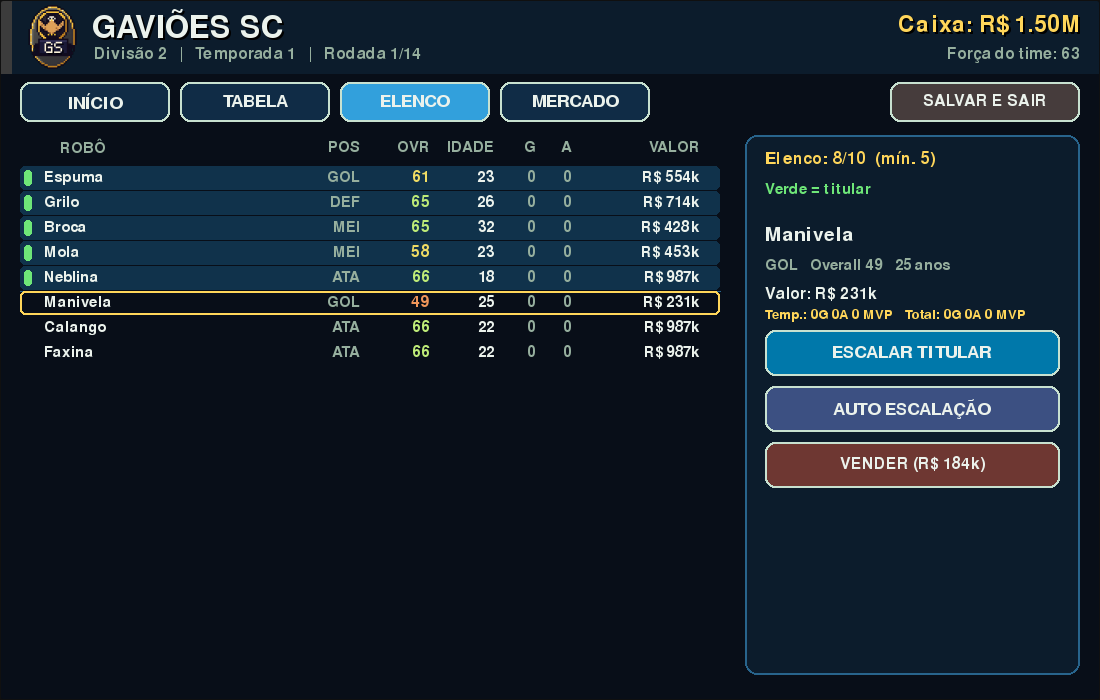
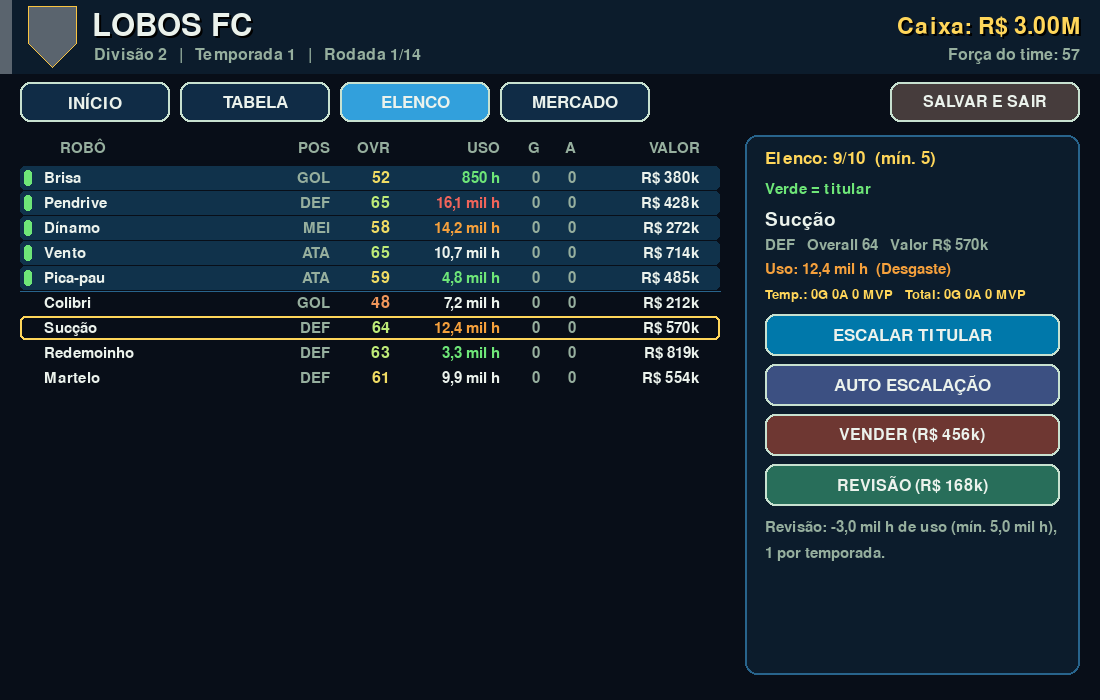
docs: carreira com horas de uso e revisao, captura do elenco

diff --git a/README.md b/README.md
@@ -49,7 +49,8 @@ pelas habilidades dos robôs.
 
 ![Elenco da carreira com robôs](docs/img/carreira-elenco.png)
 
-**Elenco da carreira** - robôs aspiradores com nome de robô, de 5 a 10 por time (5 titulares em verde).
+**Elenco da carreira** - robôs aspiradores com nome de robô, de 5 a 10 por time (5 titulares em verde), horas de
+USO coloridas pela fase (verde amaciando, branco auge, laranja desgaste, vermelho fim de vida) e a REVISÃO.
 
 ![Todos os escudos](docs/img/escudos.png)
 
@@ -197,12 +198,18 @@ torcida, ~1 min) sem trocar a música do menu. Qualquer tecla, clique, toque ou 
    com nome de robô ("Zumbido", "Faísca", "Rodinha", "Turbo Mk2", "Vassoura-7", "RX-07"...;
    catálogo de ~4,7 mil nomes em `game/robot_names.py`, tirado do id do robô, sem repetir no clube).
    **Elenco de 5 a 10 robôs** (5 titulares em campo: GOL, DEF, 2 MEI, ATA, e até 5 reservas; os
-   clubes da CPU começam com 7-10, sempre com goleiro reserva) com overall/idade/valor,
+   clubes da CPU começam com 7-10, sempre com goleiro reserva) com overall/horas de uso/valor,
    **mercado de transferências** (não compra acima de 10 nem vende abaixo de 5), finanças (bilheteria,
    salários, premiação), **promoção/rebaixamento** (sobem/descem 2) e evolução
-   dos robôs entre temporadas. Save antigo (nomes de pessoa, 12-20 jogadores) é migrado ao
+   dos robôs entre temporadas. **Horas de uso** no lugar da idade: +50 h por partida para cada titular
+   (jogos assistidos e simulados) e +300 h para todo robô na virada da temporada; a fase define a evolução
+   do overall (0-5 mil h Amaciando, 5-11 mil Auge, 11-16 mil Desgaste, 16 mil+ Fim de vida) e com 16 mil h
+   (40%) ou 18 mil h o robô vai para a **reciclagem** (entra um de fábrica, 0-2 mil h). Robô novinho vale mais,
+   gasto vale menos. **REVISÃO** (ELENCO, robô do seu clube): tira 3 mil h sem baixar de 5 mil h, 1 por robô
+   por temporada, custa 25% do valor base (mín. R$ 100k) e não muda o overall. Save antigo (nomes de pessoa, 12-20 jogadores) é migrado ao
    continuar: todos ganham nome de robô e o elenco fica com os titulares + os melhores reservas até 10
-   (no seu clube os excedentes são vendidos pelo valor de mercado e o dinheiro entra no caixa). Suas partidas são **jogadas automaticamente
+   (no seu clube os excedentes são vendidos pelo valor de mercado e o dinheiro entra no caixa); save `ver` 2
+   (idade em anos) vira `ver` 3 com horas = (idade - 18) x 1000 (+-300 pelo id), overall igual. Suas partidas são **jogadas automaticamente
    no campo** (você assiste; velocidade 1x/2x/4x/MAX nas teclas 1-4); as dos
    outros clubes são simuladas. Na aba INÍCIO, o seletor de **formação** do seu clube fica no
    painel da próxima partida. O progresso é salvo sozinho (`localStorage` no
@@ -453,7 +460,7 @@ export SDL_VIDEODRIVER=dummy SDL_AUDIODRIVER=dummy
 .venv/bin/python tests/test_camera.py                  # câmera de estádio: começa sempre em ESTÁDIO, C só na pausa, gol não troca, zero Surface
 .venv/bin/python tests/test_narration.py               # narrador/comentarista: catálogo, fila sem spam, nomes, faixa, zero Surface
 .venv/bin/python tests/test_match_stats.py             # estatísticas: assistência, gol contra, defesa, MVP, coleta não muda o jogo, SIMULAR, saves, telas
-.venv/bin/python tests/test_career.py                  # carreira: nomes de robô, elenco 5-10, mercado, temporadas, migração do save antigo, telas
+.venv/bin/python tests/test_career.py                  # carreira: nomes de robô, elenco 5-10, mercado, temporadas, horas de uso, revisão, migração v1/v2, telas
 .venv/bin/python tests/test_crests.py                  # escudos: determinismo, todos os times, cache/memória, zero Surface por quadro, contraste, campo "crest" da garagem
 .venv/bin/python tests/test_robot_art.py               # robôs: chassis, peças visíveis, cache, FX, local da torcida por modo
 .venv/bin/python tests/test_arena.py                   # modificadores de arena da Torre do Pó (desligados fora dela, efeito, zero Surface)
@@ -506,7 +513,7 @@ Utilitários do harness (`tests/sim_harness.py`): `golden`/`golden-new` com
 - `tools/versionar_build.sh`: versiona `game.apk`/`game.tar.gz` no `index.html` do build (`?v=<sha256 curto do game.apk>`; cache busting a cada deploy)
 - `tools/torcida_loop.sh`: gera `game/audio/torcida_loop.ogg` (torcida de fundo da partida, 24 s em loop sem emenda) a partir das 3 gravações de torcida
 - `game/robots_ui.py`: telas do Modo Robôs (hub, garagem, banco, loja, habilidades, mochila, visual, liga)
-- `game/career.py` / `game/career_ui.py`: carreira de clubes (liga, elenco de 5-10 robôs, mercado, finanças, save com `ver` e migração do save antigo) e suas telas
+- `game/career.py` / `game/career_ui.py`: carreira de clubes (liga, elenco de 5-10 robôs, mercado, finanças, horas de uso e revisão, save com `ver` e migração dos saves antigos) e suas telas
 - `game/robot_names.py`: nomes de robô da carreira (catálogo determinístico pelo id, sem RNG)
 - `game/story.py`: dados da campanha (personagens, times, cenas/diálogos, torneios, capítulos, recompensas); módulo puro, sem pygame. É a fachada da campanha: guarda o Ato 1 e junta `story_a2.py` (Ato 2), `story_a3.py` (Ato 3) e `story_side.py` (missões secundárias), com os dados de cada parte; `story_post.py` guarda as cenas curtas das revanches do NG+
 - `game/campaign.py`: lógica da campanha (progresso, torneios de copa/liga/série, chefes/pity, treino, missões secundárias, finais, recompensas, NG+ e Torre do Pó, save v3 com migração do v1/v2)

diff --git a/docs/INDEX.md b/docs/INDEX.md
@@ -14,7 +14,7 @@ Planejamento e especificações do jogo. O código e os comandos do dia a dia es
 | [specs/estatisticas.md](specs/estatisticas.md) | Estatísticas da partida (coleta passiva no motor: gols, assistências, chutes, passes, desarmes, dribles, defesas, posse), nota e MELHOR DO JOGO, onde aparecem em cada modo (fim da partida, card do resumo, TAB), SIMULAR com RNG privado, acumulados nos saves (robo `cs`, liga `ps`, torneio `ps`, jogadores da carreira) e limitações |
 | [plano-crazygames.md](plano-crazygames.md) | Proposta para publicar no CrazyGames: como funciona a publicação (Basic/Full Launch, repasse), direitos dos áudios a trocar, inglês, SDK de anúncios (`game/portal.py`), build sem CDN externo, celular, página, cadastro/pagamento e ordem dos passos |
 | [baseline-fase4.md](baseline-fase4.md) | Medições de referência antes da Fase 4 (commit 8a467a3): `draw_ms`, `menu_ms`, `ms_step`, goldens e resumo da calibragem da campanha |
-| [img/](img/) | Capturas de tela usadas no README (menu, partida com a faixa do narrador, amistoso, formação, campanha, garagem, habilidades, Mochila, cosméticos, Torre, escudos, elenco da carreira). Para regerar, com `SDL_VIDEODRIVER=dummy SDL_AUDIODRIVER=dummy SOCCERPY_SHOTS_DIR=<pasta>`: `tests/sim_harness.py ui-shots` (menu `a7_menu.png`, gol e narração) e `camera-shots`; `tests/test_campaign_ui.py <teste>` (ex.: `test_tourney_group_table_bracket_and_labels` -> `tourney_knockout.png`, `test_tower_screen_sim_watch_marks_and_restart` -> `d2_torre_tela.png`, `test_formation_selector_tourney_training_and_save` -> `formacao_torneio.png`); `tests/test_robots_ui.py test_formation_selector_robots_hub_and_save` (`formacao_robos.png`, aba LIGA); `tests/test_friendly.py` (tela do amistoso). A partida do README é um Modo Robôs no `estadio` com a garagem `sim_harness.loaded_garage()`, capturada após ~12 s de jogo. Confira cada imagem e copie só as escolhidas |
+| [img/](img/) | Capturas de tela usadas no README (menu, partida com a faixa do narrador, amistoso, formação, campanha, garagem, habilidades, Mochila, cosméticos, Torre, escudos, elenco da carreira). Para regerar, com `SDL_VIDEODRIVER=dummy SDL_AUDIODRIVER=dummy SOCCERPY_SHOTS_DIR=<pasta>`: `tests/sim_harness.py ui-shots` (menu `a7_menu.png`, gol e narração) e `camera-shots`; `tests/test_campaign_ui.py <teste>` (ex.: `test_tourney_group_table_bracket_and_labels` -> `tourney_knockout.png`, `test_tower_screen_sim_watch_marks_and_restart` -> `d2_torre_tela.png`, `test_formation_selector_tourney_training_and_save` -> `formacao_torneio.png`); `tests/test_robots_ui.py test_formation_selector_robots_hub_and_save` (`formacao_robos.png`, aba LIGA); `tests/test_friendly.py` (tela do amistoso). `tests/test_career.py test_ui_hours_column_and_revision` (`carreira-elenco.png`, `carreira-revisao.png`, `carreira-mercado.png`). A partida do README é um Modo Robôs no `estadio` com a garagem `sim_harness.loaded_garage()`, capturada após ~12 s de jogo. Confira cada imagem e copie só as escolhidas |
 | [specs/plano-de-implementacao.md](specs/plano-de-implementacao.md) | Ondas 0, A (visual), B (itens/skills), C (campanha), D (pós-campanha) em passos pequenos com arquivos e validação; estratégia de testes; riscos; decisões para o dev |
 
 ## Estado
@@ -78,6 +78,13 @@ Planejamento e especificações do jogo. O código e os comandos do dia a dia es
   `tests/test_career.py` (fixture real do save antigo em `tests/fixtures/career_v1_mid_season.json`); goldens 80/80;
   a carreira ficou um pouco mais fácil (na simulação de 10 temporadas, a Divisão 1 chega ~1 temporada antes):
   pronto e publicado.
+- Carreira com horas de uso: a idade virou **horas de uso** (+50 h por partida de titular, +300 h por temporada;
+  fases Amaciando/Auge/Desgaste/Fim de vida com a mesma curva da idade; reciclagem com 16 mil h (40%) ou 18 mil h;
+  coluna USO colorida no ELENCO e no MERCADO) e a **REVISÃO** no ELENCO (-3 mil h, piso de 5 mil h, 1 por robô por
+  temporada, 25% do valor base, mín. R$ 100k; revisar e vender nunca dá lucro). Save da carreira `ver` = 3 com
+  migração do v2 (e do v1 passando pelas duas; fixtures v2 em `tests/fixtures/career_v2_*.json`); carreira nova
+  idêntica à v2 na força; na simulação de 10 temporadas a CPU fica de 0,1 a 1,0 abaixo no overall médio e a
+  Divisão 1 chega na mesma temporada (~6ª); goldens 80/80: pronto (não publicado).
 - Deploy: build do pygbag + `tools/versionar_build.sh` (cache busting do `game.apk`); ver o README.
 - Publicação em portais: proposta para o CrazyGames em [plano-crazygames.md](plano-crazygames.md) (ainda não iniciada).
-- Código: ~53,3 mil linhas (game ~31,9 mil, tests ~21,4 mil); 572 testes (`def test_` em `tests/test_*.py`).
+- Código: ~53,9 mil linhas (game ~32,1 mil, tests ~21,8 mil); 587 testes (`def test_` em `tests/test_*.py`).

diff --git a/docs/roadmap.md b/docs/roadmap.md
@@ -14,6 +14,7 @@ Tabela original do planejamento (HEAD fd5e17b); as linhas das Fases 4 e 6 e a do
 | 6 | **Som**: efeitos sonoros e música sintetizados por código (stdlib), sons gravados, música nas partidas com a torcida de fundo em loop, mudo e volumes nas prefs | pronta e publicada ([specs/som.md](specs/som.md)) |
 | - | **Estatísticas e MELHOR DO JOGO** (fim da partida, card do resumo, artilharia/assistências acumuladas) e **escudos** em pixel art para os 128 times | prontos e publicados ([specs/estatisticas.md](specs/estatisticas.md); escudos em [specs/visual-desenhos-e-torcida.md](specs/visual-desenhos-e-torcida.md)) |
 | - | **Carreira com robôs**: nomes de robô (`robot_names.py`) e elenco de 5 a 10 (5 titulares), save `ver` 2 com migração do antigo | pronta e publicada (testes em `tests/test_career.py`) |
+| - | **Carreira com horas de uso**: idade vira horas de uso (fases, reciclagem) e REVISÃO no ELENCO, save `ver` 3 com migração do v2 | pronta (testes em `tests/test_career.py`) |
 | - | **Publicação no CrazyGames** | proposta ([plano-crazygames.md](plano-crazygames.md)): direitos dos áudios, inglês, SDK de anúncios, build do portal |
 | - | **Amistoso** com escolha de times e formações; **formação** também na Campanha, no Modo Robôs e na Carreira | pronto e publicado ([specs/formacoes.md](specs/formacoes.md)); balanceamento medido em `tests/calib_formations.py` (sem formação dominante até Força ~75; acima disso a PRESSÃO rende mais, aceito pelo dono; efeito no SIMULAR) |
 
